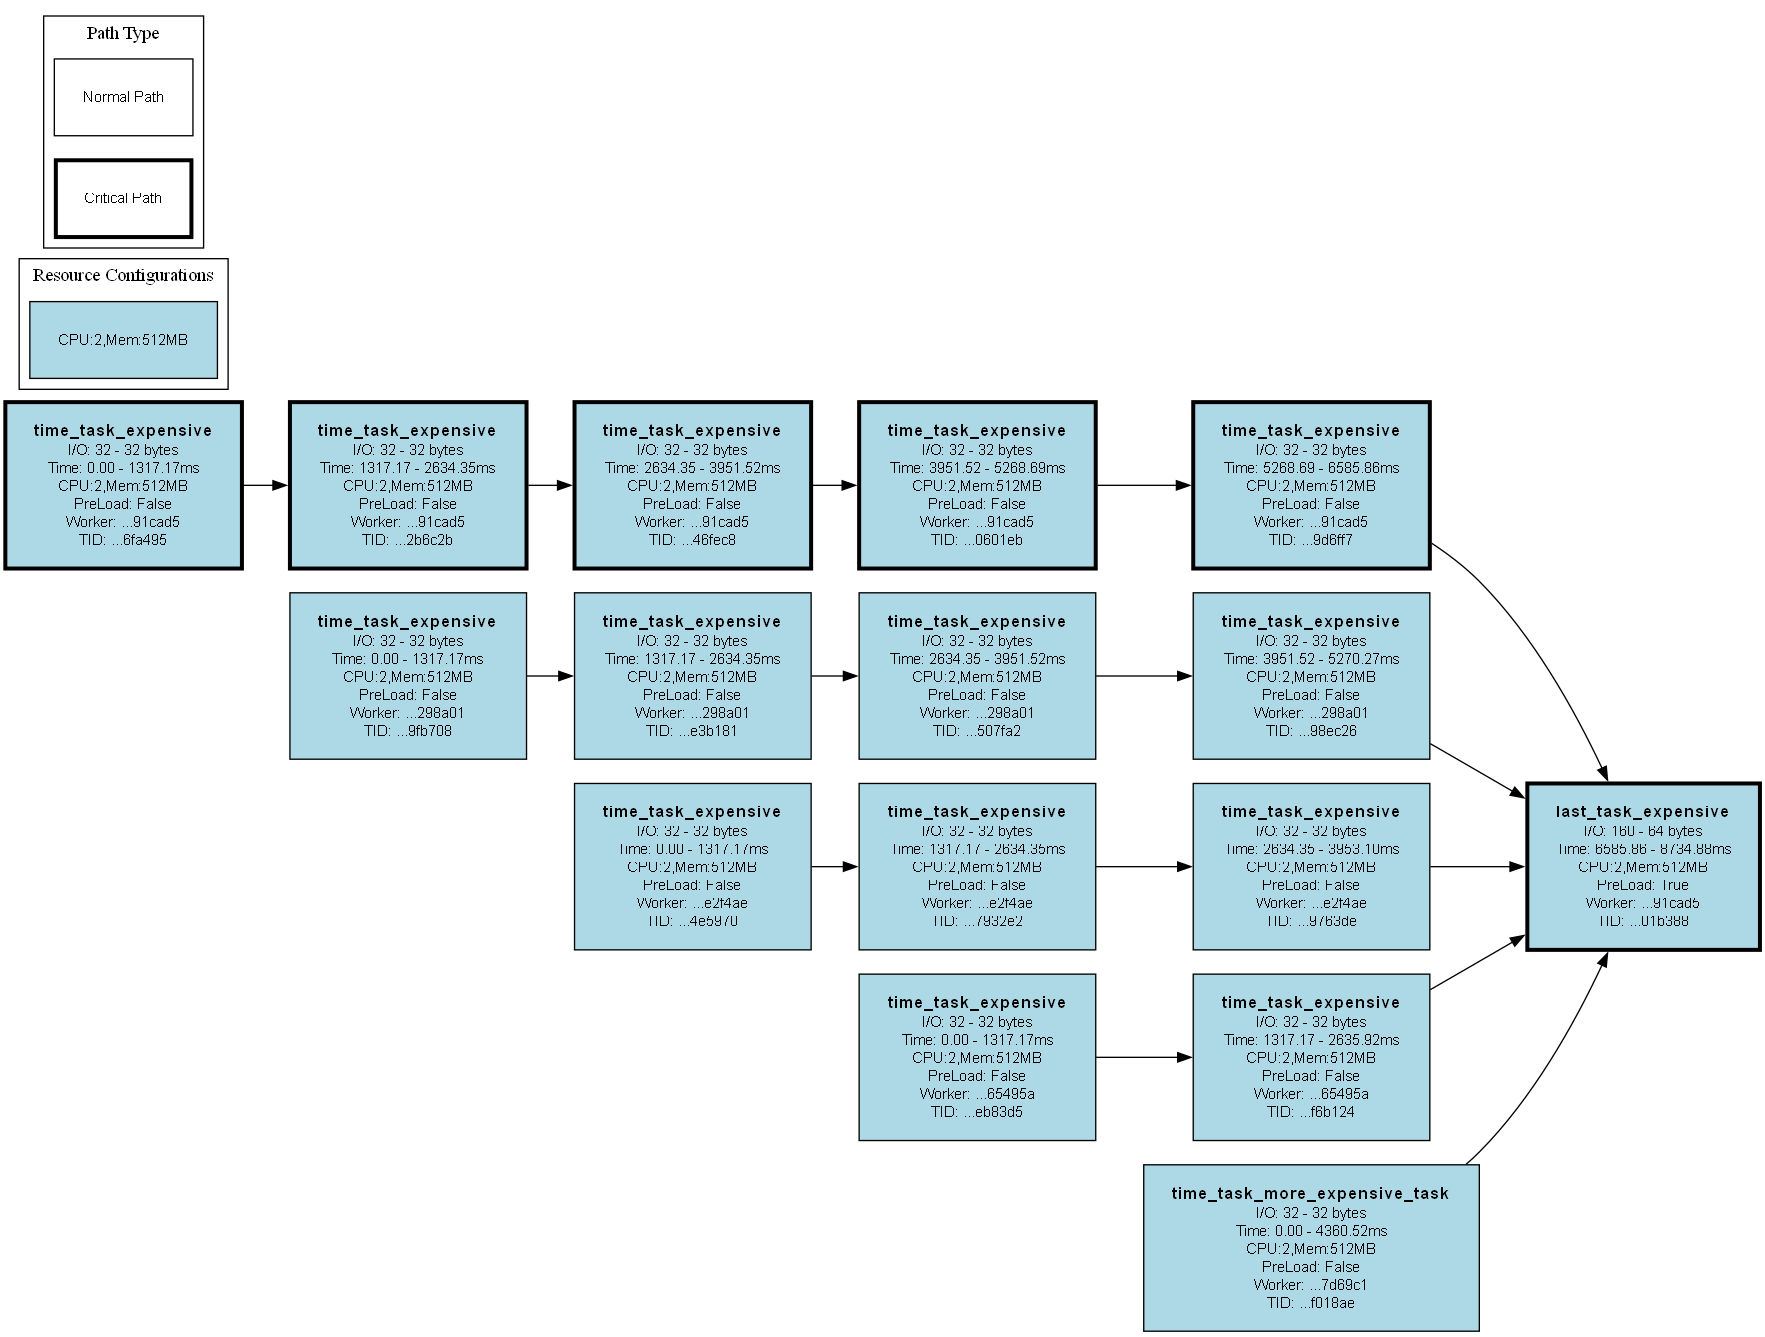
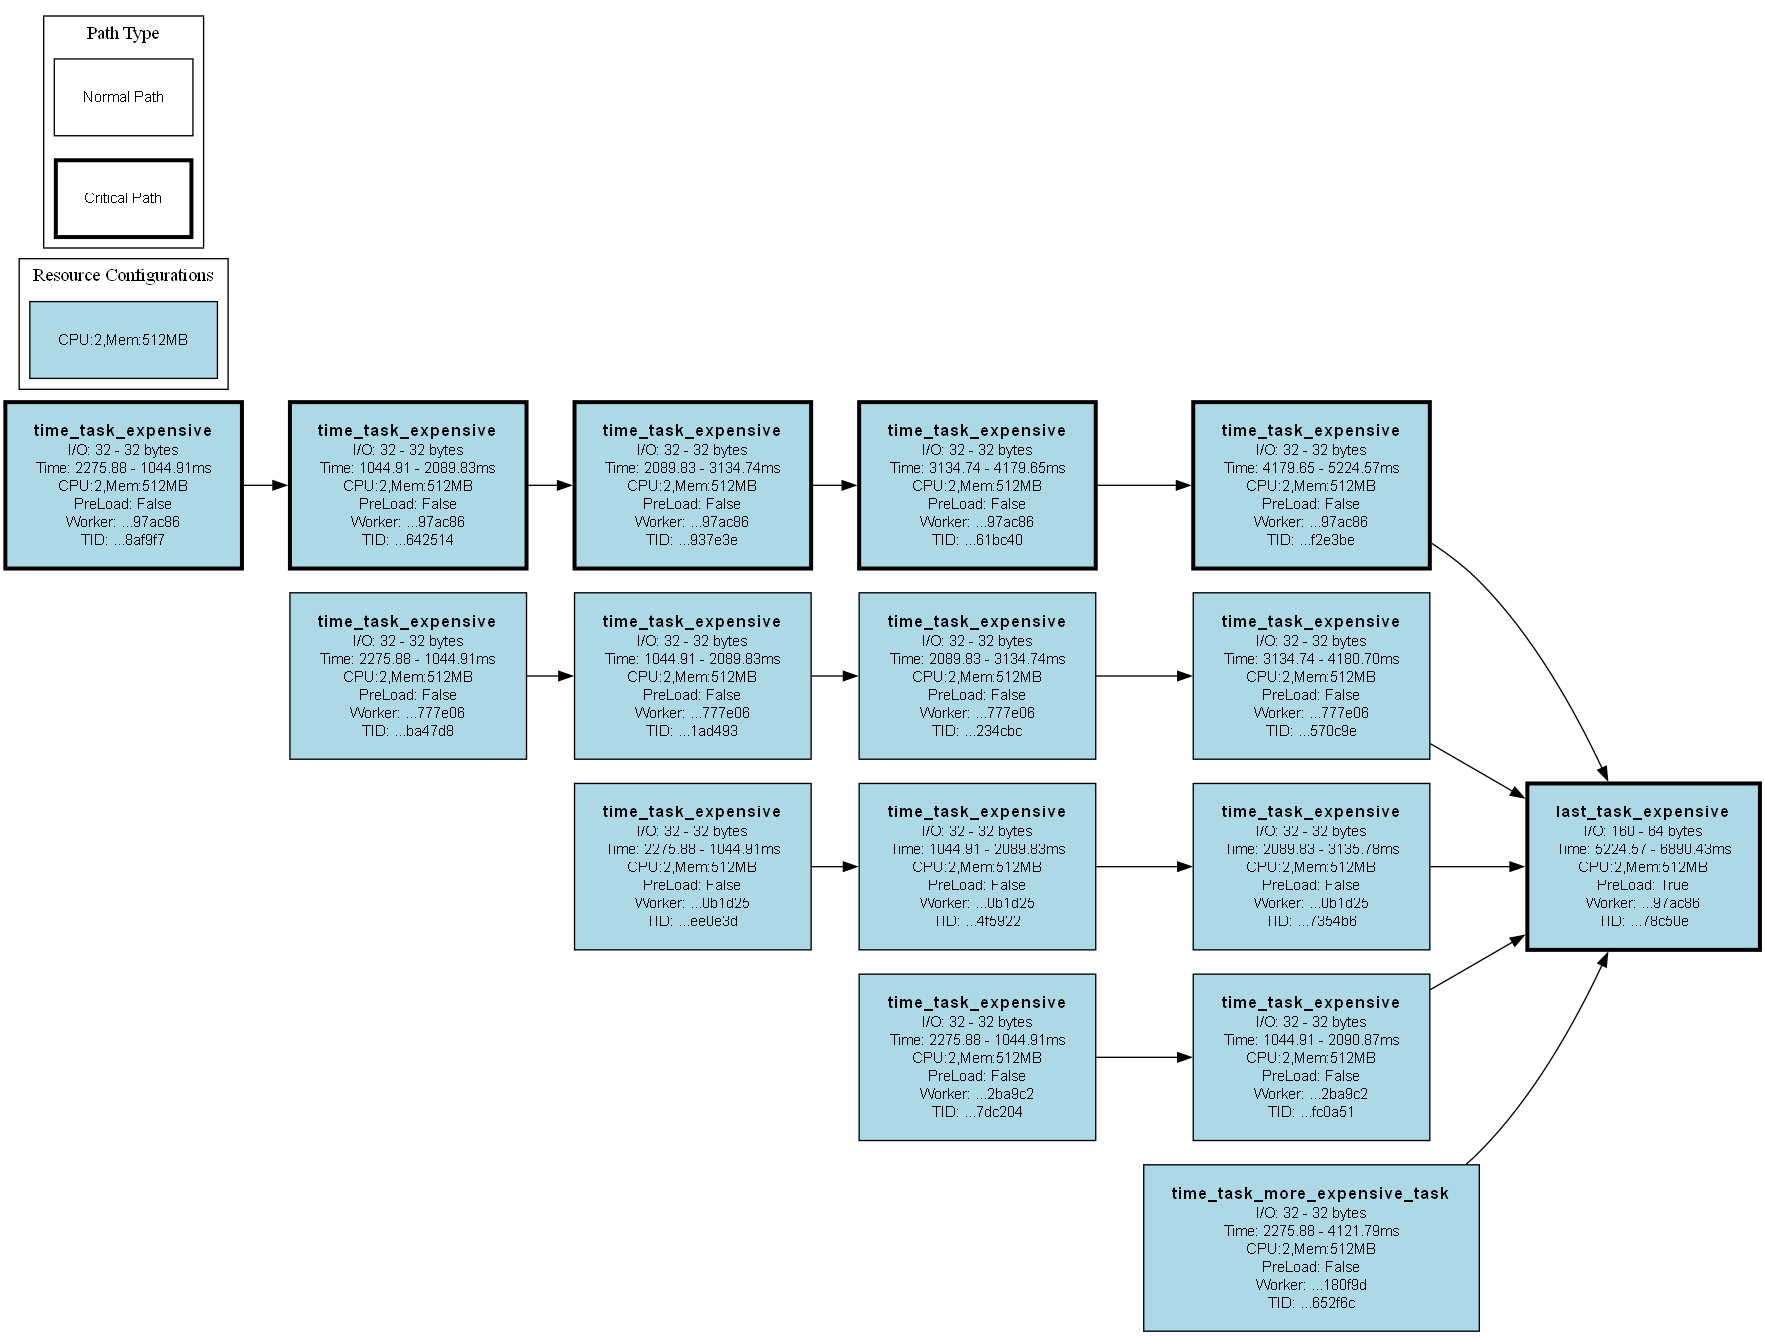
fix start and end time on dashboard + added worker startup time to earliest start time on prediction

diff --git a/_metadata_analysis/workflow_instance_analysis_dashboard.py b/_metadata_analysis/workflow_instance_analysis_dashboard.py
@@ -179,39 +179,26 @@ def main():
     task_timings = {}
     
     # First pass: collect all task metrics and find the minimum start time
-    min_start_time = None
-    for task_id, metrics in zip(dag._all_nodes.keys(), dag_metrics):
-        task_start_time = metrics.started_at_timestamp_s
-        task_timings[task_id] = {
-            'start_time': task_start_time,
-            'end_time': None
-        }
-        
-        if min_start_time is None or task_start_time < min_start_time:
-            min_start_time = task_start_time
-    
-    assert min_start_time is not None
+    dag_start_timestamp_s = dag_submission_metrics.dag_submission_time_ms / 1000
 
     # Second pass: calculate end times relative to min_start_time
     for task_id, metrics in zip(dag._all_nodes.keys(), dag_metrics):
-        relative_start_time = (metrics.started_at_timestamp_s - min_start_time) * 1000  # Convert to ms
-        end_time = relative_start_time + metrics.input_metrics.tp_total_time_waiting_for_inputs_ms if metrics.input_metrics.tp_total_time_waiting_for_inputs_ms else 0 + metrics.tp_execution_time_ms if metrics.tp_execution_time_ms else 0 + metrics.total_invocation_time_ms if metrics.total_invocation_time_ms else 0
-        if metrics.output_metrics: end_time += metrics.output_metrics.tp_time_ms if metrics.output_metrics.tp_time_ms else 0
-        task_timings[task_id]['end_time'] = end_time
+        # worker startup time is considered through the {metrics.started_at_timestamp_s}
+        relative_start_time_ms = (metrics.started_at_timestamp_s - dag_start_timestamp_s) * 1000  # Convert to ms
+        end_time = relative_start_time_ms + (metrics.input_metrics.tp_total_time_waiting_for_inputs_ms or 0) + (metrics.tp_execution_time_ms or 0) + (metrics.output_metrics.tp_time_ms or 0) + (metrics.total_invocation_time_ms or 0)
+        task_timings[task_id] = {
+            'start_time': relative_start_time_ms,
+            'end_time': end_time
+        }
     
     # Update task_metrics_data with the calculated timing information
     for i, task_data in enumerate(task_metrics_data):
         task_id = task_data['task_id']
         task_metrics_data[i].update({
-            'relative_start_time_ms': (task_timings[task_id]['start_time'] - min_start_time) * 1000,
+            'relative_start_time_ms': task_timings[task_id]['start_time'],
             'end_time_ms': task_timings[task_id]['end_time']
         })
     
-    # Make timing information available for the rest of the code
-    min_start_time_ms = min_start_time * 1000 if min_start_time else None  # Convert to ms for consistency
-    task_end_times = {task_id: timing['end_time'] for task_id, timing in task_timings.items()}
-    task_start_times = {task_id: timing['start_time'] for task_id, timing in task_timings.items()}
-
     # Create tabs for visualization and metrics
     tab_viz, tab_summary, tab_exec, tab_data_transfer, tab_workers, tab_critical_path = st.tabs([
         "Visualization", 
@@ -407,7 +394,7 @@ def main():
             
             if metrics and task_node:
                 # Basic task info
-                st.metric("Function", task_node.func_name)
+                st.metric("Function", task_node.func_name, help=task_node.id.get_full_id())
                 st.metric("Worker", metrics.worker_resource_configuration.worker_id)
                 col1, col2, col3 = st.columns(3)
                 output_data = metrics.output_metrics.deserialized_size_bytes
@@ -415,7 +402,7 @@ def main():
                 worker_startup_metrics_w_my_task = worker_startups_w_my_task[0] if len(worker_startups_w_my_task) > 0 else None
                 worker_startup_time_ms = (worker_startup_metrics_w_my_task.end_time_ms - worker_startup_metrics_w_my_task.start_time_ms) if worker_startup_metrics_w_my_task and worker_startup_metrics_w_my_task.end_time_ms else 0
                 with col1:
-                    total_task_handling_time = (metrics.input_metrics.tp_total_time_waiting_for_inputs_ms or 0) + (metrics.tp_execution_time_ms or 0) + (metrics.update_dependency_counters_time_ms or 0) + (metrics.output_metrics.tp_time_ms or 0) + (metrics.total_invocation_time_ms or 0)
+                    total_task_handling_time = worker_startup_time_ms + (metrics.input_metrics.tp_total_time_waiting_for_inputs_ms or 0) + (metrics.tp_execution_time_ms or 0) + (metrics.update_dependency_counters_time_ms or 0) + (metrics.output_metrics.tp_time_ms or 0) + (metrics.total_invocation_time_ms or 0)
                     st.metric("Worker Resources", f"{metrics.worker_resource_configuration.cpus}, {metrics.worker_resource_configuration.memory_mb}", help="CPUs, Memory (MB)")
                     st.metric("Time Waiting for Dependencies", f"{(metrics.input_metrics.tp_total_time_waiting_for_inputs_ms or 0):.2f} ms")
                     st.metric("Task Execution Time", f"{(metrics.tp_execution_time_ms or 0):.2f} ms")
@@ -436,47 +423,47 @@ def main():
             plan_key = f"{MetricsStorage.PLAN_KEY_PREFIX}{dag.master_dag_id}"
             plan_data = metrics_redis.get(plan_key)
 
-            if metrics and plan_data and task_node:
+            if metrics and task_node:
                 try:
-                    plan: AbstractDAGPlanner.PlanOutput = cloudpickle.loads(plan_data) # type: ignore
-                    tp: AbstractDAGPlanner.PlanningTaskInfo | None = plan.nodes_info.get(st.session_state.selected_task_id) # type: ignore
-                    if tp:
-                        # Get the current task's timing metrics
-                        current_task_metrics = next(
-                            (t for t in task_metrics_data if t['task_id'] == st.session_state.selected_task_id),
-                            None
-                        )
+                    plan: AbstractDAGPlanner.PlanOutput | None = None
+                    tp: AbstractDAGPlanner.PlanningTaskInfo | None = None
+                    if plan_data:
+                        plan = cloudpickle.loads(plan_data) # type: ignore
+                        tp = plan.nodes_info.get(st.session_state.selected_task_id) # type: ignore
+                    
+                    current_task_metrics = next((t for t in task_metrics_data if t['task_id'] == st.session_state.selected_task_id), None)
+                    
+                    if current_task_metrics:
+                        # Calculate all the metrics we want to compare
+                        output_size = metrics.output_metrics.deserialized_size_bytes if metrics.output_metrics else 0
+                        actual_start_time = current_task_metrics['relative_start_time_ms']
+                        end_time_ms = current_task_metrics['end_time_ms']
                         
-                        if current_task_metrics:
-                            # Calculate all the metrics we want to compare
-                            output_size = metrics.output_metrics.deserialized_size_bytes if metrics.output_metrics else 0
-                            actual_start_time = current_task_metrics['relative_start_time_ms']
-                            end_time_ms = current_task_metrics['end_time_ms']
-                            
-                            # Create columns for comparison
-                            col_metric, col_planned, col_observed, col_diff = st.columns([2, 1, 1, 1])
+                        # Create columns for comparison
+                        col_metric, col_planned, col_observed, col_diff = st.columns([2, 1, 1, 1])
 
-                            # Add header
-                            with col_metric:
-                                st.markdown("**Metric**")
-                            with col_planned:
-                                st.markdown("**Planned**")
-                            with col_observed:
-                                st.markdown("**Observed**")
-                            with col_diff:
-                                st.markdown("**Difference**")
-                            
-                            # Comparison fields
-                            with col_metric:
-                                st.text('Input Size (bytes)')
-                                st.text('Output Size (bytes)')
-                                st.text('Downloading Deps. (ms)')
-                                st.text('Execution Time (ms)')
-                                st.text('Upload Time (ms)')
-                                st.text('Earliest Start (ms)')
-                                st.text('End Time (ms)')
-                                st.text('Worker Startup Time (ms)')
-                            with col_planned:
+                        # Add header
+                        with col_metric:
+                            st.markdown("**Metric**")
+                        with col_planned:
+                            st.markdown("**Planned**")
+                        with col_observed:
+                            st.markdown("**Observed**")
+                        with col_diff:
+                            st.markdown("**Difference**")
+                        
+                        # Comparison fields
+                        with col_metric:
+                            st.text('Input Size (bytes)')
+                            st.text('Output Size (bytes)')
+                            st.text('Downloading Deps. (ms)')
+                            st.text('Execution Time (ms)')
+                            st.text('Upload Time (ms)')
+                            st.text('Earliest Start (ms)')
+                            st.text('End Time (ms)')
+                            st.text('Worker Startup Time (ms)')
+                        with col_planned:
+                            if tp:
                                 st.text(format_bytes(tp.input_size))
                                 st.text(format_bytes(tp.output_size))
                                 st.text(f"{float(tp.total_download_time_ms):.2f} ms")
@@ -485,38 +472,39 @@ def main():
                                 st.text(f"{float(tp.earliest_start_ms):.2f} ms")
                                 st.text(f"{float(tp.path_completion_time_ms):.2f} ms")
                                 st.text(f"{float(tp.worker_startup_time_ms):.2f} ms")
-                            
-                            with col_observed:
-                                st.text(format_bytes(sum([input_metric.deserialized_size_bytes for input_metric in metrics.input_metrics.input_download_metrics.values()]) + metrics.input_metrics.hardcoded_input_size_bytes))
-                                st.text(format_bytes(output_size))
-                                time_downloading_inputs = sum([input_metric.time_ms for input_metric in metrics.input_metrics.input_download_metrics.values() if input_metric.time_ms])
-                                st.text(f"{float(time_downloading_inputs):.2f} ms")
-                                st.text(f"{float(metrics.tp_execution_time_ms):.2f} ms")
-                                st.text(f"{float(metrics.output_metrics.tp_time_ms or 0):.2f} ms")
-                                st.text(f"{float(actual_start_time):.2f} ms")
-                                st.text(f"{float(end_time_ms):.2f} ms")
-                                worker_startups_w_my_task = [m for m in worker_startup_metrics if task_node.id.get_full_id() in m.initial_task_ids]
-                                worker_startup_metrics_w_my_task = worker_startups_w_my_task[0] if len(worker_startups_w_my_task) > 0 else None
-                                actual_worker_startup_time_ms = (worker_startup_metrics_w_my_task.end_time_ms - worker_startup_metrics_w_my_task.start_time_ms) if worker_startup_metrics_w_my_task and worker_startup_metrics_w_my_task.end_time_ms else 0
-                                st.text(f"{float(actual_worker_startup_time_ms):.2f} ms")
-                            
-                            # Calculate and display difference
-                            def get_diff_style(percentage):
-                                """Returns appropriate color style based on percentage difference"""
-                                if percentage is None:
-                                    return ""
-                                if abs(percentage) > 70:
-                                    return "color: red;"
-                                return "color: green;"
+                        
+                        with col_observed:
+                            st.text(format_bytes(sum([input_metric.deserialized_size_bytes for input_metric in metrics.input_metrics.input_download_metrics.values()]) + metrics.input_metrics.hardcoded_input_size_bytes))
+                            st.text(format_bytes(output_size))
+                            time_downloading_inputs = sum([input_metric.time_ms for input_metric in metrics.input_metrics.input_download_metrics.values() if input_metric.time_ms])
+                            st.text(f"{float(time_downloading_inputs):.2f} ms")
+                            st.text(f"{float(metrics.tp_execution_time_ms):.2f} ms")
+                            st.text(f"{float(metrics.output_metrics.tp_time_ms or 0):.2f} ms")
+                            st.text(f"{float(actual_start_time):.2f} ms")
+                            st.text(f"{float(end_time_ms):.2f} ms")
+                            worker_startups_w_my_task = [m for m in worker_startup_metrics if task_node.id.get_full_id() in m.initial_task_ids]
+                            worker_startup_metrics_w_my_task = worker_startups_w_my_task[0] if len(worker_startups_w_my_task) > 0 else None
+                            actual_worker_startup_time_ms = (worker_startup_metrics_w_my_task.end_time_ms - worker_startup_metrics_w_my_task.start_time_ms) if worker_startup_metrics_w_my_task and worker_startup_metrics_w_my_task.end_time_ms else 0
+                            st.text(f"{float(actual_worker_startup_time_ms):.2f} ms")
+                        
+                        # Calculate and display difference
+                        def get_diff_style(percentage):
+                            """Returns appropriate color style based on percentage difference"""
+                            if percentage is None:
+                                return ""
+                            if abs(percentage) > 70:
+                                return "color: red;"
+                            return "color: green;"
 
-                            def format_percentage(diff, total):
-                                """Calculate and format percentage difference"""
-                                if total == 0:
-                                    return None, "N/A"
-                                percentage = (diff / total) * 100
-                                return percentage, f"{percentage:+.2f}%"
+                        def format_percentage(diff, total):
+                            """Calculate and format percentage difference"""
+                            if total == 0:
+                                return None, "N/A"
+                            percentage = (diff / total) * 100
+                            return percentage, f"{percentage:+.2f}%"
 
-                            with col_diff:
+                        with col_diff:
+                            if tp:
                                 # Input Size difference
                                 planned_input = tp.input_size
                                 observed_input = sum([input_metric.deserialized_size_bytes for input_metric in metrics.input_metrics.input_download_metrics.values()]) + metrics.input_metrics.hardcoded_input_size_bytes
@@ -581,8 +569,6 @@ def main():
                                     st.markdown(f"<span style='{get_diff_style(pct)}'>{pct:+.2f}%</span>", unsafe_allow_html=True)
                                 else:
                                     st.text("N/A")
-                    else:
-                        st.warning("No planning data available for selected task")
                 except Exception as e:
                     st.error(f"Error loading plan data: {str(e)}")
                         

diff --git a/src/planning/abstract_dag_planner.py b/src/planning/abstract_dag_planner.py
@@ -39,8 +39,7 @@ class AbstractDAGPlanner(ABC, WorkerExecutionLogic):
         
         total_download_time_ms: float # time spent downloading data for the task (can't be 0 if data was "preloaded")
         
-        total_time_ms: float
-        earliest_start_ms: float
+        earliest_start_ms: float # includes the time waiting for worker startup
         path_completion_time_ms: float
 
     @dataclass
@@ -191,8 +190,7 @@ class AbstractDAGPlanner(ABC, WorkerExecutionLogic):
             upload_time = predictions_provider.predict_data_transfer_time('upload', output_size, resource_config, sla)
 
         # 6. Total timing
-        total_time = tp_download_time + exec_time + upload_time
-        path_completion_time = earliest_start + total_time
+        path_completion_time = earliest_start + tp_download_time + exec_time + upload_time
         
         nodes_info[node_id] = AbstractDAGPlanner.PlanningTaskInfo(
             node, 
@@ -203,7 +201,6 @@ class AbstractDAGPlanner(ABC, WorkerExecutionLogic):
             exec_time, 
             upload_time,
             total_download_time,
-            total_time, 
             earliest_start,
             path_completion_time
         )
@@ -229,6 +226,7 @@ class AbstractDAGPlanner(ABC, WorkerExecutionLogic):
                 # won't cause a worker launch, it will execute on already running worker
                 #   note: checking cpus and memory is done to prevent against "flexible" workers (worker_id = None)
                 my_node_info.worker_startup_time_ms = 0
+                my_node_info.earliest_start_ms += 0
                 continue
 
             any_node_w_same_resources_starting_before_me = any([n for n in topo_sorted_nodes if \
@@ -244,12 +242,12 @@ class AbstractDAGPlanner(ABC, WorkerExecutionLogic):
                 # WARM START
                 worker_startup_prediction = predictions_provider.predict_worker_startup_time(my_resource_config, "warm", sla)
                 my_node_info.worker_startup_time_ms = worker_startup_prediction
-                my_node_info.total_time_ms += worker_startup_prediction
+                my_node_info.earliest_start_ms += worker_startup_prediction
             else:
                 # COLD START
                 worker_startup_prediction = predictions_provider.predict_worker_startup_time(my_resource_config, "cold", sla)
                 my_node_info.worker_startup_time_ms = worker_startup_prediction
-                my_node_info.total_time_ms += worker_startup_prediction
+                my_node_info.earliest_start_ms += worker_startup_prediction
 
     def _calculate_node_timings_with_common_resources(self, topo_sorted_nodes: list[DAGTaskNode], predictions_provider: PredictionsProvider, resource_config: TaskWorkerResourceConfiguration, sla: SLA):
         """

diff --git a/TODO.md b/TODO.md
@@ -1,9 +1,16 @@
 - WARM/COLD starts ASSUMPTION:
     - using resource_config (memory + cpus) instead of worker_id
 
+- planned vs observed => show observed even if prediction doesn't exist
+- predictions_provider bug: providing `warm` predictions when I only have `cold` predictions => shouldn't happen
+- fix: planned earliest start is 0 for root nodes
+
 - `workflow_instance` dashboard
-    - On `critical path` tab, show the Makespan
     - refactor to make data access easier and non-repetitive/unnecessary double access
+
+- `global_planning` dashboard
+    - is the table makespan (actual and predicted) including the `worker startup time`?
+        - NO. fix it
 
 - See notion todo for "visualization todo"
 
